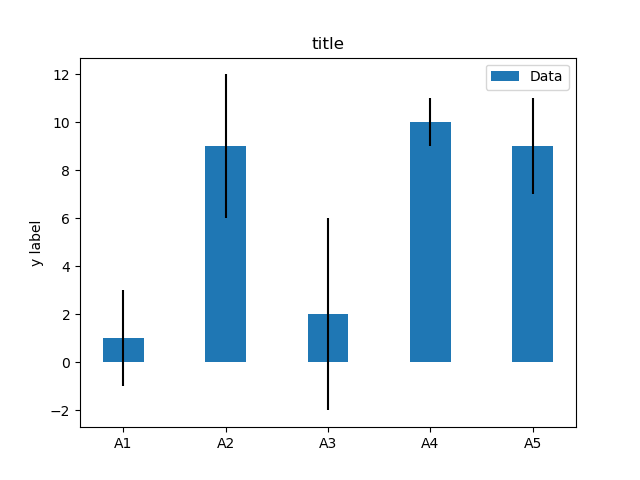
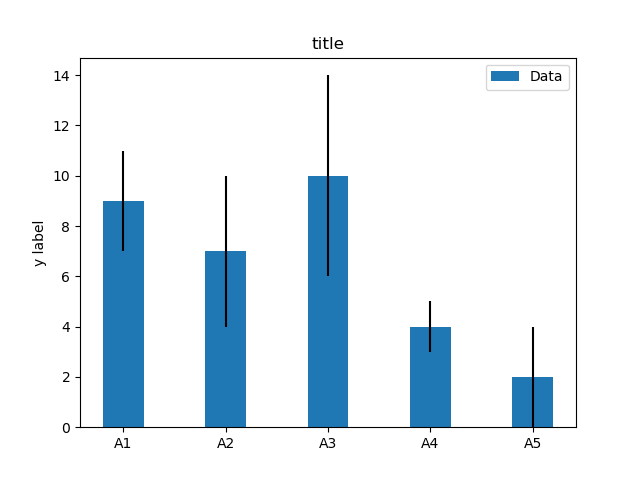
first commit

diff --git a/example.py b/example.py
@@ -2,7 +2,7 @@ import numpy as np
 import matplotlib.pyplot as plt
 
 labels = ['A1', 'A2', 'A3', 'A4', 'A5']
-m_means = [1,9,2,10,9]
+m_means = [9,7,10,4,2]
 m_std = [2, 3, 4, 1, 2]
 width = 0.40       # the width of the bars
 

diff --git a/README.md b/README.md
@@ -1,4 +1,4 @@
-# Matplotlib no 2 
+# Matplotlib no 3 
 
 python example
 
